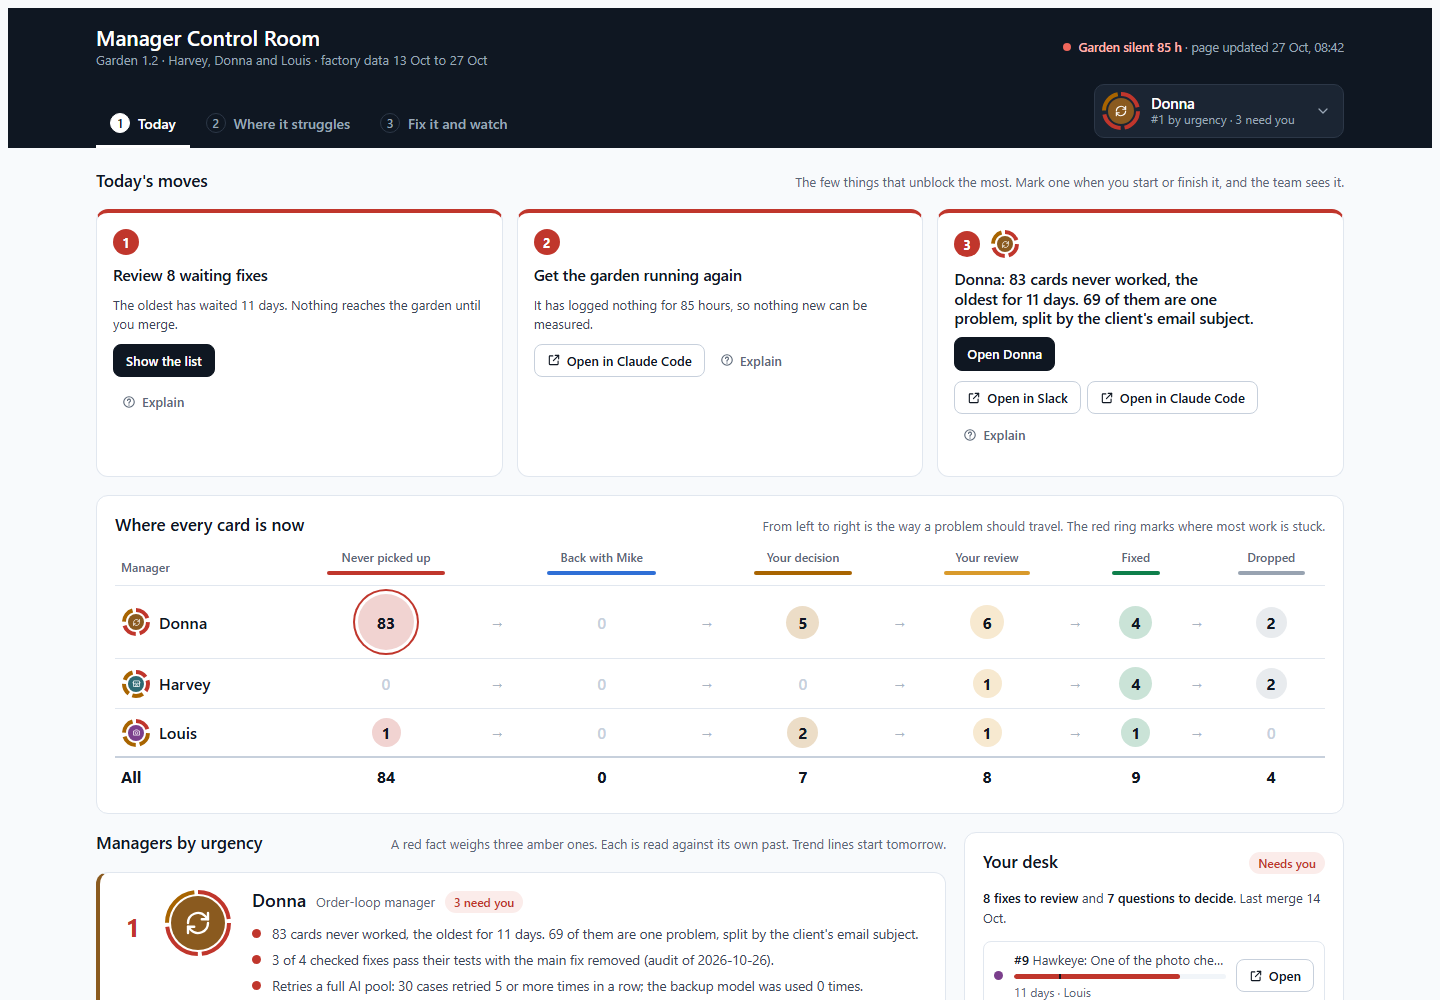
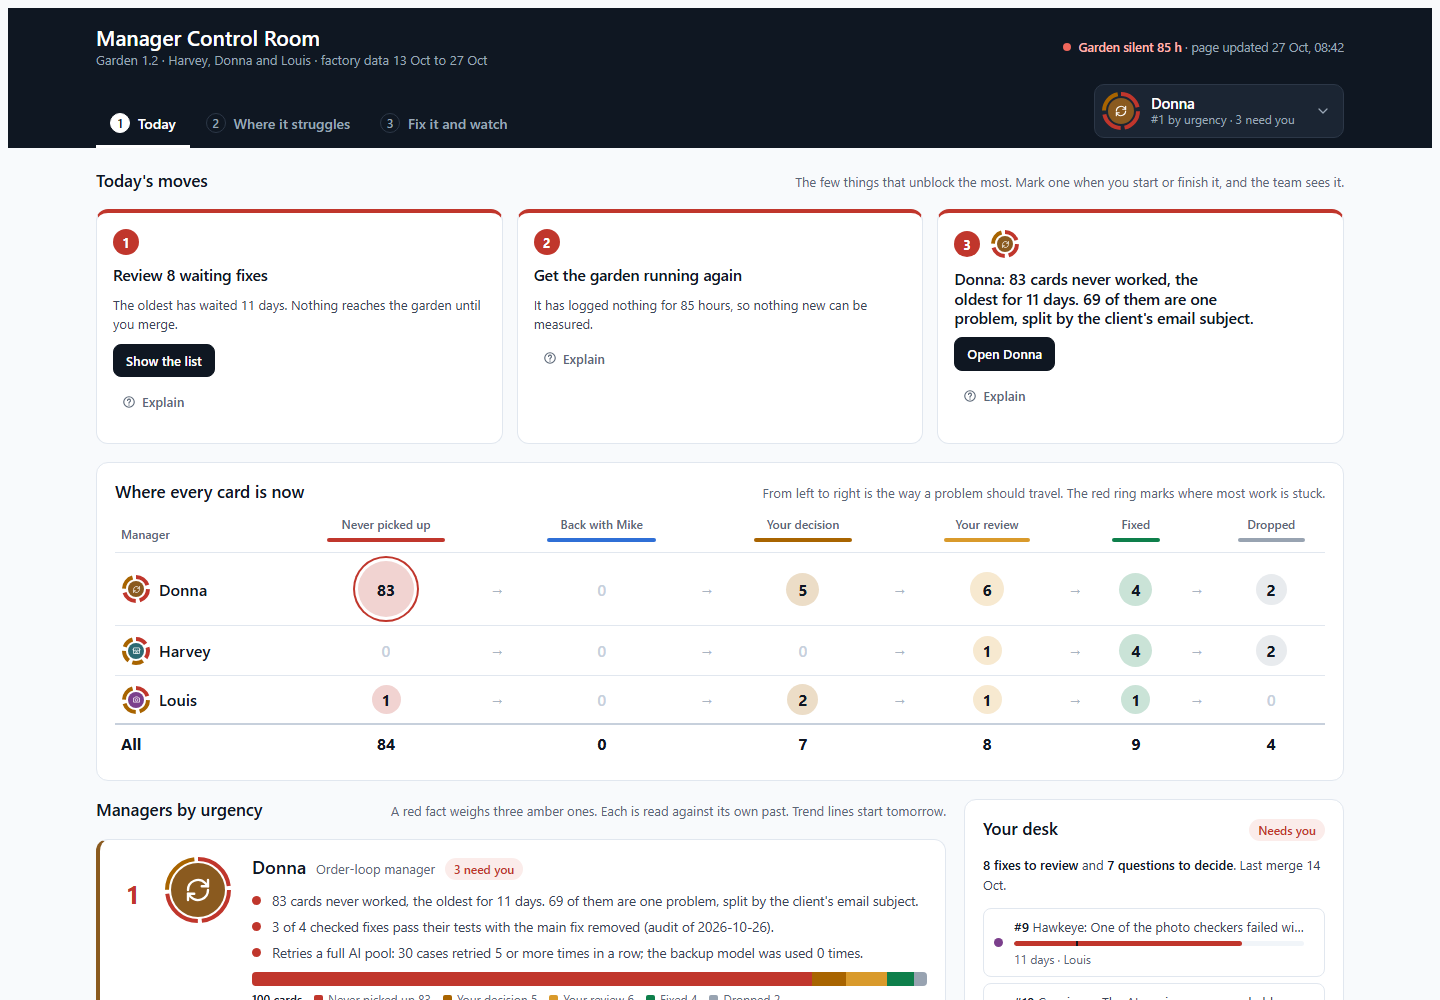
docs: Control Room screenshot from the cleaned page; drop the repeated heading

diff --git a/README.md b/README.md
@@ -2,8 +2,6 @@
 
 <img src="docs/media/banner.png" alt="Facundo" width="100%">
 
-# Facundo
-
 **AI agents deliver high-value orders through local partners. When an order still needs a person, the system treats that as a bug and fixes itself.**
 
 [How it works](#how-it-works) · [How it fixes itself](#how-it-fixes-itself) · [Three decisions](#three-decisions) · [Run it locally](#run-it-locally) · [Sources](#sources)
